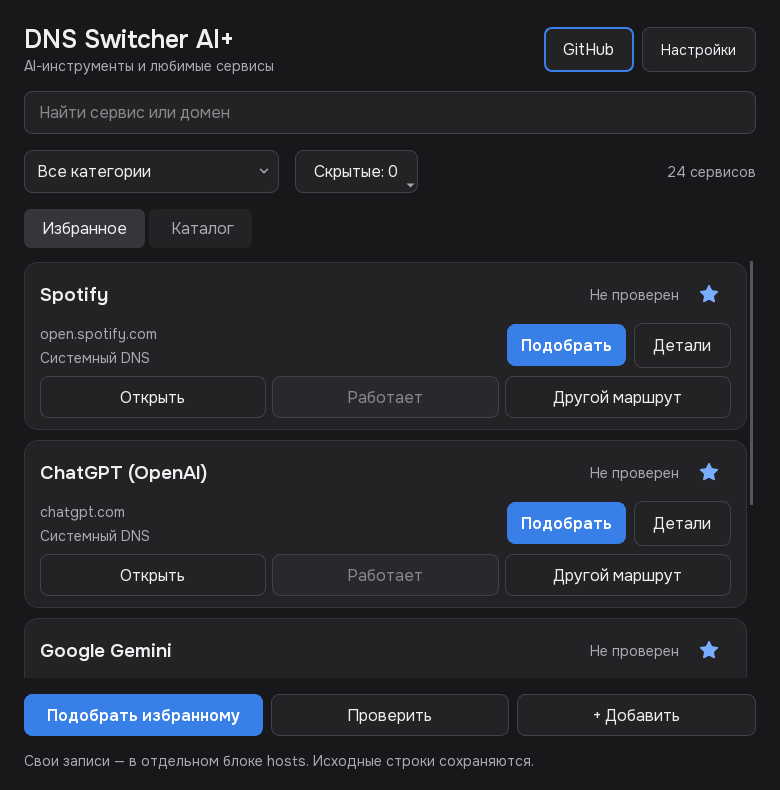
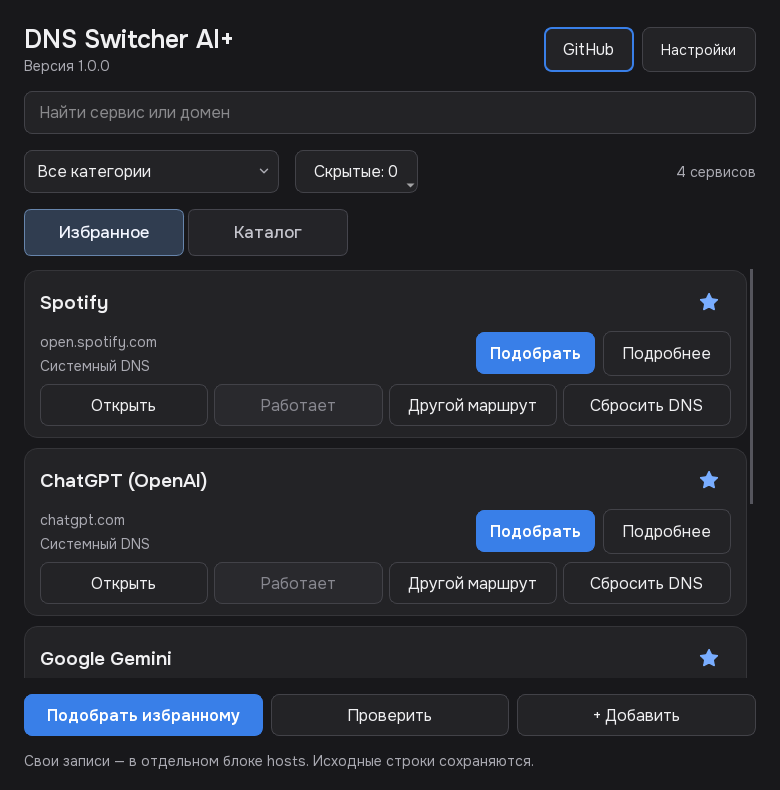
Publish the current application as version 1.0

diff --git a/src/ui/main_window.py b/src/ui/main_window.py
@@ -46,8 +46,8 @@ class MainWindow(QMainWindow):
         self._exiting = False
         self._session_results = {}
 
-        from core.updater import VERSION, BUILD
-        self.setWindowTitle(f'DNS Switcher AI+ {VERSION} · сборка {BUILD}')
+        from core.updater import VERSION
+        self.setWindowTitle(f'DNS Switcher AI+ {VERSION}')
         self.resize(780, 790)
         self.setMinimumSize(640, 580)
 
@@ -93,8 +93,8 @@ class MainWindow(QMainWindow):
         title_box.setSpacing(1)
         self.title_lbl = QLabel("DNS Switcher AI+", self)
         self.title_lbl.setStyleSheet("font-size: 25px; font-weight: 600; color: #f0f0f2;")
-        from core.updater import VERSION, BUILD
-        self.sub_lbl = QLabel(f'Версия {VERSION} · сборка {BUILD}', self)
+        from core.updater import VERSION
+        self.sub_lbl = QLabel(f'Версия {VERSION}', self)
         self.sub_lbl.setStyleSheet("font-size: 14px; color: #aaaab2;")
         title_box.addWidget(self.title_lbl)
         title_box.addWidget(self.sub_lbl)

diff --git a/src/core/updater.py b/src/core/updater.py
@@ -16,8 +16,7 @@ import httpx
 from PySide6.QtCore import QThread, Signal
 from core.network import Cancellation, Cancelled
 
-VERSION = '1.1.0'
-BUILD = 3
+VERSION = '1.0.0'
 REPOSITORY = 'pryanus/dns-switcher-ai-plus'
 ASSET_NAME = 'DNS_Switcher_AI_Plus.exe'
 API_URL = f'https://api.github.com/repos/{REPOSITORY}/releases/latest'

diff --git a/README.md b/README.md
@@ -1,10 +1,10 @@
-# DNS Switcher AI+ 1.1
+# DNS Switcher AI+ 1.0
 
 Windows-приложение для подбора DNS/SNI-маршрутов к AI и повседневным сервисам. Тёмный интерфейс, избранное, связанные домены и системный трей.
 
-![Интерфейс](docs/screenshot-1.1-build3.png)
+![Интерфейс](docs/screenshot.png)
 
-Сборка 3: номер виден в окне. Исправлена запись в hosts, когда Windows разрешает запись, но запрещает переименование открытого файла. Добавлен общий Windows mutex для всех версий и путей EXE; повторный запуск открывает существующее окно. Исправлено исключение общего IP сайта и API при смене маршрута; итог применения или отсутствие альтернативы показаны под списком.
+Исправлена запись в hosts, когда Windows разрешает запись, но запрещает переименование открытого файла. Добавлен общий Windows mutex для всех версий и путей EXE; повторный запуск открывает существующее окно. Исправлено исключение общего IP сайта и API при смене маршрута; итог применения или отсутствие альтернативы показаны под списком.
 
 ## Скачать
 
